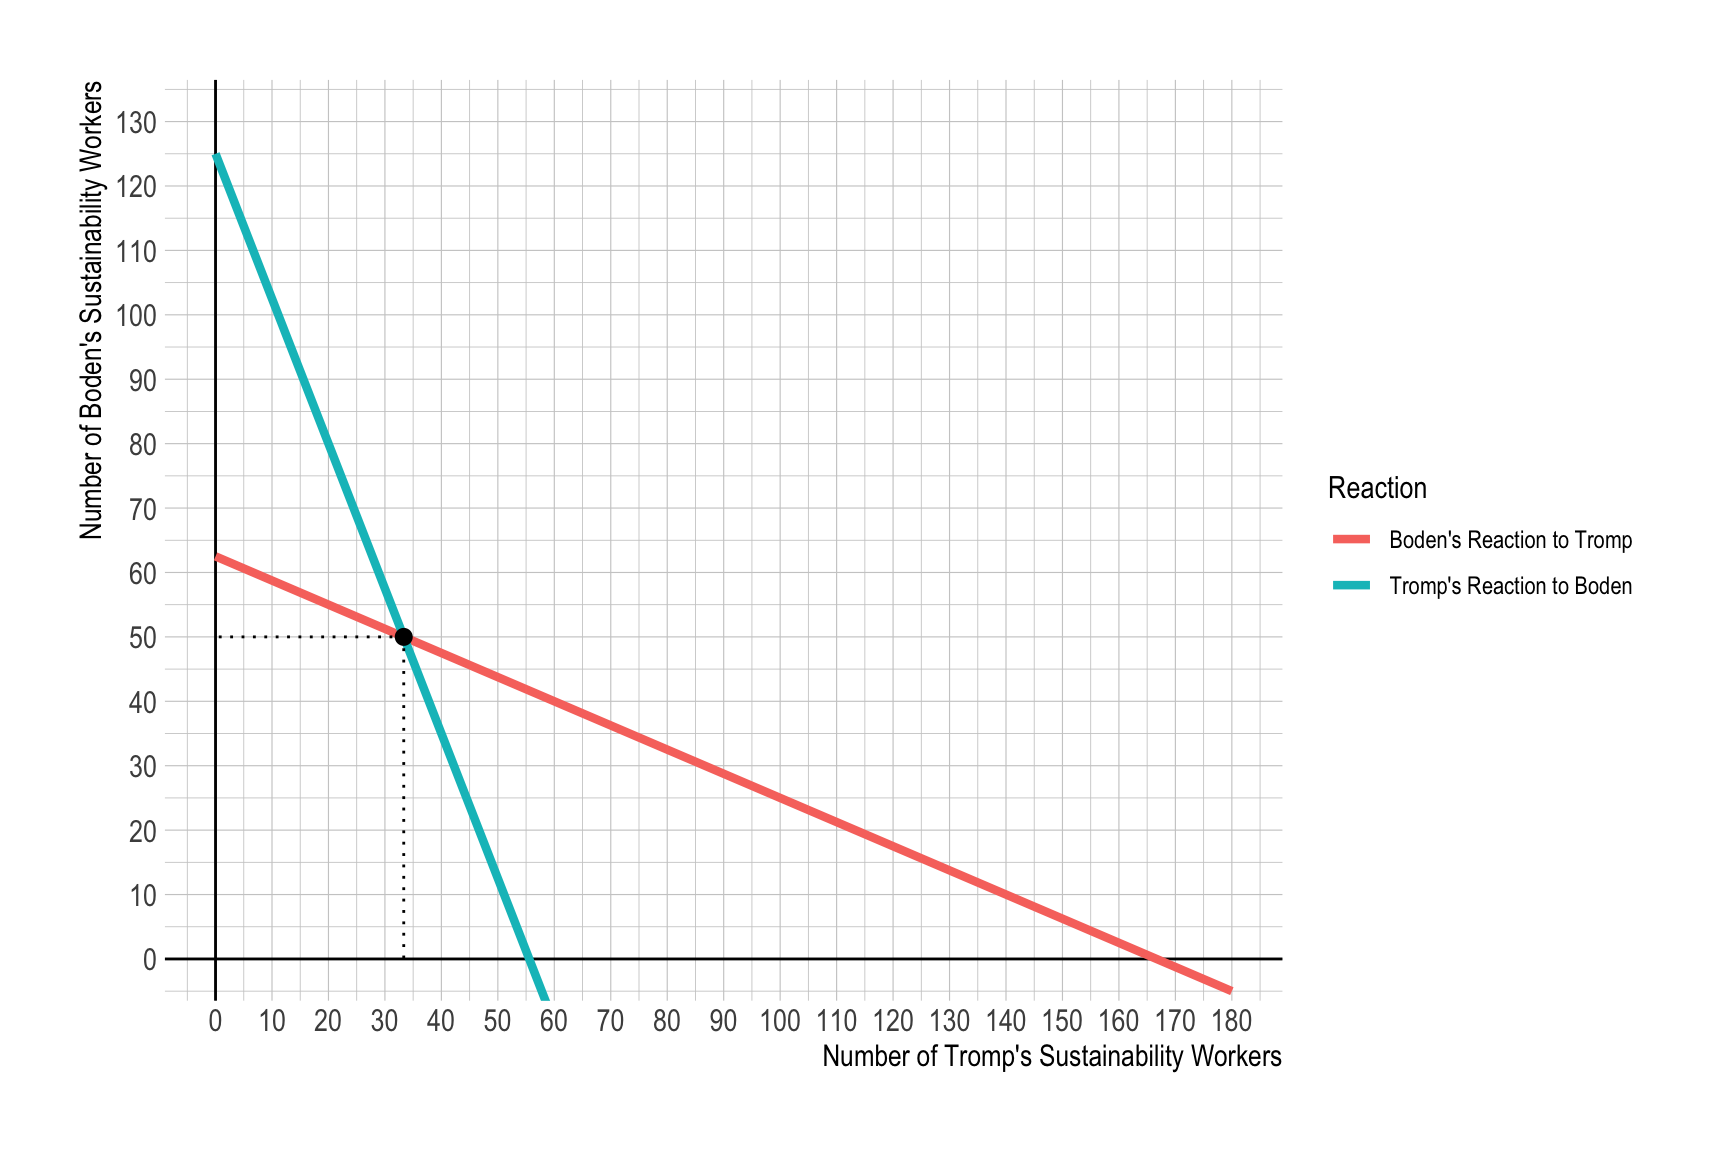
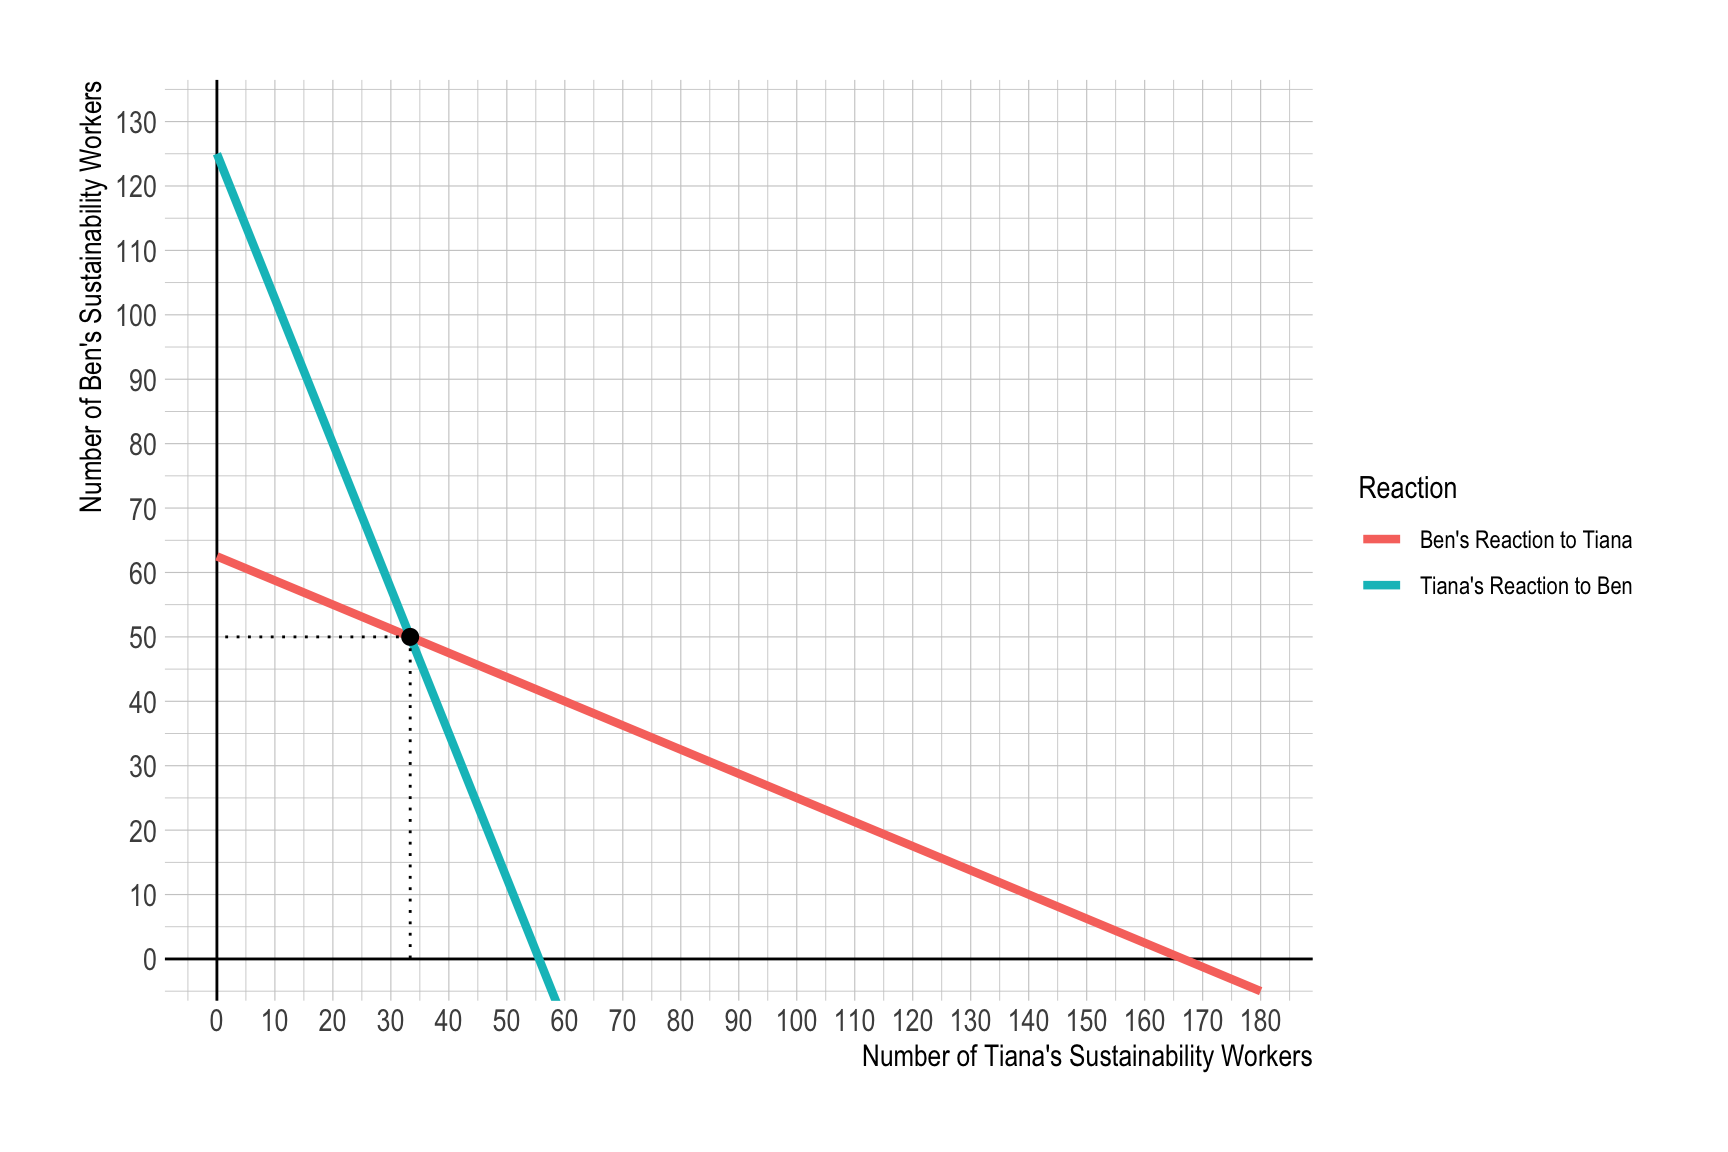
lec30

Changed region(s): [[0.125, 0.0938, 0.75, 0.9375], [0.75, 0.4062, 0.9375, 0.5312], [0.0312, 0.3125, 0.0625, 0.4688]]

diff --git a/ex/econ340-hw-3-sol.html b/ex/econ340-hw-3-sol.html
@@ -719,24 +719,24 @@ ul.task-list li input[type="checkbox"] {
 
 <section id="question-1.-provision-of-the-sustailibilities" class="level1">
 <h1>Question 1. Provision of the Sustailibilities</h1>
-<p>The town of Geneseo has two residents: Boden and Tromp. The town currently funds its sustainability department solely from the individual contributions of Boden and Tromp.</p>
-<p>Boden and Tromp have their own utility functions, <span class="math inline">\(U_{B}\)</span> and <span class="math inline">\(U_{T}\)</span> respectively, over private goods ( <span class="math inline">\(X\)</span> ) and total sustainability workers ( <span class="math inline">\(M\)</span> ) of the forms:</p>
+<p>The town of Geneseo has two residents: Ben and Tiana. The town currently funds its sustainability department solely from the individual contributions of Ben and Tiana.</p>
+<p>Ben and Tiana have their own utility functions, <span class="math inline">\(U_{B}\)</span> and <span class="math inline">\(U_{T}\)</span> respectively, over private goods ( <span class="math inline">\(X\)</span> ) and total sustainability workers ( <span class="math inline">\(M\)</span> ) of the forms:</p>
 <p><span class="math display">\[U_{B} = 3 × \log(X_{B}) + 3 × \log(M).\]</span> <span class="math display">\[U_{T} = 4 × \log(X_{T}) + 2 × \log(M).\]</span></p>
 <p>The total provision of sustainability workers hired, <span class="math inline">\(M\)</span>, is the sum of the number hired by each of the two persons:</p>
 <p><span class="math display">\[M = M_{B} + M_{T}.\]</span></p>
-<p>Boden and Tromp both have income of <span class="math inline">\(\$100\)</span>, and the price of both the private good and the sustainability worker is <span class="math inline">\(\$1\)</span>. Therefore, they are limited to providing between 0 and 100 sustainability workers.</p>
+<p>Ben and Tiana both have income of <span class="math inline">\(\$100\)</span>, and the price of both the private good and the sustainability worker is <span class="math inline">\(\$1\)</span>. Therefore, they are limited to providing between 0 and 100 sustainability workers.</p>
 <p><br></p>
 <section id="q1a." class="level2">
 <h2 class="anchored" data-anchor-id="q1a.">Q1a.</h2>
 <ul>
 <li>How many sustainability workers are hired if the Geneseo government does not intervene?
 <ul>
-<li>How many are paid for by Boden? By Tromp?</li>
-<li>Describe the Boden’s and the Tromp’s decisions on provision of sustainability workers using a graph in the <span class="math inline">\((M_{B}, M_{T})\)</span> space.</li>
+<li>How many are paid for by Ben? By Tiana?</li>
+<li>Describe the Ben’s and the Tiana’s decisions on provision of sustainability workers using a graph in the <span class="math inline">\((M_{B}, M_{T})\)</span> space.</li>
 </ul></li>
 </ul>
 <p><br></p>
-<p>Taking the Tromp’s action and the prices of the private good and the sustainability worker as given, Boden maximizes his utility:</p>
+<p>Taking the Tiana’s action and the prices of the private good and the sustainability worker as given, Ben maximizes his utility:</p>
 <p><span class="math display">\[
 \begin{align}
 \max_{M_{B}}\; U_{B} &amp;= 3 × \log(100 -  M_{B}) + 3 × \log(M_{B} + M_{T}),\tag{UMax-B}
@@ -749,7 +749,7 @@ ul.task-list li input[type="checkbox"] {
 <p><span class="math display">\[
 M_{B} = 50 - \frac{1}{2}M_{T}.\tag{Action-B}
 \]</span></p>
-<p>Taking the Boden’s action and the prices of the private good and the sustainability worker as given, Tromp maximizes his utility:</p>
+<p>Taking the Ben’s action and the prices of the private good and the sustainability worker as given, Tiana maximizes his utility:</p>
 <p><span class="math display">\[
 \begin{align}
 \max_{M_{T}}\; U_{T} &amp;= 4 × \log(100 -  M_{T}) + 2 × \log(M_{B} + M_{T}),\tag{UMax-T}
@@ -762,11 +762,11 @@ M_{B} = 50 - \frac{1}{2}M_{T}.\tag{Action-B}
 <p><span class="math display">\[
 M_{T} = \frac{1}{3}(100 - 2M_{B}).\tag{Action-T}
 \]</span></p>
-<p>Both Boden’s and Tromp’s optimal decisions on how many sustainability workers to hire are characterized by (Action-B) and (Action-T), respectively. Solving the two unknowns—<span class="math inline">\(M_{B}\)</span> and <span class="math inline">\(M_{T}\)</span>—in the two equations—(Action-B) and (Action-T)—gives us:</p>
+<p>Both Ben’s and Tiana’s optimal decisions on how many sustainability workers to hire are characterized by (Action-B) and (Action-T), respectively. Solving the two unknowns—<span class="math inline">\(M_{B}\)</span> and <span class="math inline">\(M_{T}\)</span>—in the two equations—(Action-B) and (Action-T)—gives us:</p>
 <p><span class="math display">\[
 (M_{B}^{*}, M_{T}^{*}) = (50, 0).
 \]</span> Therefore, the total provision of sustainability workers under no government intervention is <span class="math inline">\(M^{*} = M_{B}^{*} + M_{T}^{*} = 50\)</span>. <br></p>
-<p>The following describes Boden’s and Tromp’s reactions to the other individual’s choice on the number of sustainability workers to hire:</p>
+<p>The following describes Ben’s and Tiana’s reactions to the other individual’s choice on the number of sustainability workers to hire:</p>
 <div class="cell">
 <div class="cell-output-display">
 <p><img src="econ340-hw-3-sol_files/figure-html/unnamed-chunk-2-1.png" class="img-fluid" width="864"></p>
@@ -779,7 +779,7 @@ M_{T} = \frac{1}{3}(100 - 2M_{B}).\tag{Action-T}
 <li>What is the socially optimal number of sustainability workers if the Social planner appreciates each individual’s budget constraint?</li>
 </ul>
 <p><br></p>
-<p>Taking both Boden’s and Tromp’s budget constraints as given, the Social Planner chooses <span class="math inline">\(M_{B}\)</span> and <span class="math inline">\(M_{T}\)</span> to maximize the social welfare <span class="math inline">\(SW = U_{B} + U_{T}\)</span>: <span class="math display">\[
+<p>Taking both Ben’s and Tiana’s budget constraints as given, the Social Planner chooses <span class="math inline">\(M_{B}\)</span> and <span class="math inline">\(M_{T}\)</span> to maximize the social welfare <span class="math inline">\(SW = U_{B} + U_{T}\)</span>: <span class="math display">\[
 \begin{align}
 \max_{M_{B}, M_{T}}\; SW &amp;= 3 × \log(100 -  M_{B}) + 4 × \log(100 -  M_{T}) + 5 × \log(M_{B} + M_{T}),\tag{SWMax}
 \end{align}
@@ -797,12 +797,12 @@ M_{B} = \frac{1}{8}(500 - 3M_{T});\tag{Action-SW-B}\\
 M_{T} = \frac{1}{9}(100 - 4M_{B}).\tag{Action-SW-T}
 \end{align}
 \]</span></p>
-<p>The Social Planner’s allocation of the number of Boden’s and Tromp’s sustainability workers is characterized by (Action-SW-B) and (Action-SW-T). Solving the two unknowns—<span class="math inline">\(M_{B}\)</span> and <span class="math inline">\(M_{T}\)</span>—in the two equations—(Action-SW-B) and (Action-SW-T)—gives us:</p>
+<p>The Social Planner’s allocation of the number of Ben’s and Tiana’s sustainability workers is characterized by (Action-SW-B) and (Action-SW-T). Solving the two unknowns—<span class="math inline">\(M_{B}\)</span> and <span class="math inline">\(M_{T}\)</span>—in the two equations—(Action-SW-B) and (Action-SW-T)—gives us:</p>
 <p><span class="math display">\[
 (M_{B}^{o}, M_{T}^{o}) = \left(50, \frac{100}{3}\right).
 \]</span> Therefore, the socially optimal level of sustainability workers is <span class="math inline">\(M^{o} = M_{B}^{o} + M_{T}^{o} = \frac{250}{3}\)</span>, which is greater than the one in Q1a. The sustainability workers are underprovided in the private market.</p>
 <p><br></p>
-<p>The following plots (Action-SW-B) and (Action-SW-T), describing how the Social Planner allocates Boden’s and Tromp’s sustainability workers:</p>
+<p>The following plots (Action-SW-B) and (Action-SW-T), describing how the Social Planner allocates Ben’s and Tiana’s sustainability workers:</p>
 <div class="cell">
 <div class="cell-output-display">
 <p><img src="econ340-hw-3-sol_files/figure-html/unnamed-chunk-3-1.png" class="img-fluid" width="864"></p>
@@ -820,7 +820,7 @@ M_{T} = \frac{1}{9}(100 - 4M_{B}).\tag{Action-SW-T}
 <p><br></p>
 <ul>
 <li><p>The socially optimal level of provision of sustainability workers is larger than the one without the Geneseo government’s intervention.</p></li>
-<li><p>Notice that Boden’s contribution to sustainability goes down as Tromp’s contribution goes up, and vice versa. This implies that both individuals have incentive to free ride on each other’s.</p></li>
+<li><p>Notice that Ben’s contribution to sustainability goes down as Tiana’s contribution goes up, and vice versa. This implies that both individuals have incentive to free ride on each other’s.</p></li>
 </ul>
 <p><br><br><br></p>
 </section>
